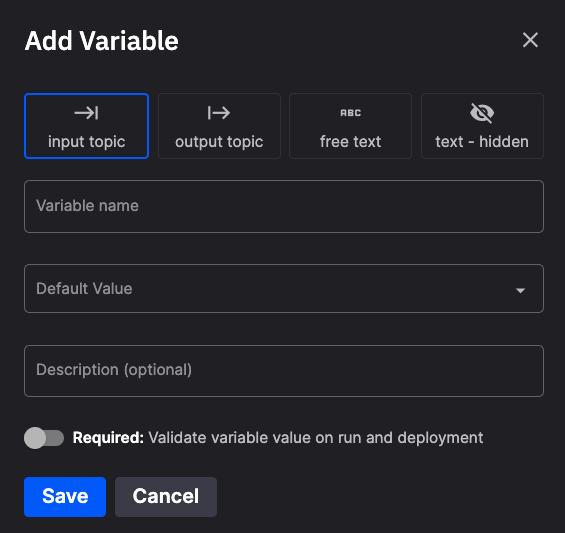
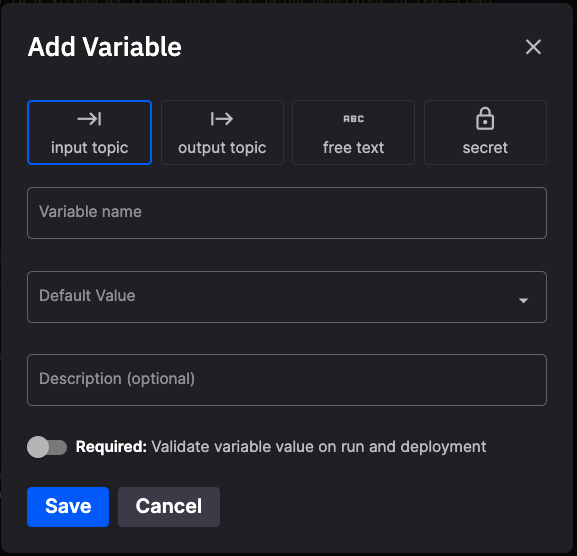
[add] - secrets management

diff --git a/docs/platform/how-to/environment-variables.md b/docs/platform/how-to/environment-variables.md
@@ -22,3 +22,39 @@ Once the variable has been created, you can then access the variable in your cod
 api_secret = os.environ["API_SECRET"]
 print(api_secret)
 ```
+
+## Secrets management
+
+Sometimes you connect the [Quix Connectors](../connectors/index.md), or services you have created, to other services, such as AWS, Vonage, Twilio, Azure and so on. You usually need to provide credentials to access these third-party APIs and services, using environment variables. 
+
+You do not want to expose these credentials through the use of environment variables in your YAML code, service code, Git repository, or even the UI, which may have shared access. Quix provides a feature to enable your credentials to be stored securely - secrets management.
+
+Using secrets management, you can create secret variables whose value is hidden in code (Git repository and Application code view), UI, and YAML code. The value is encrypted. This is ideal for environment variables used to provide credentials to third-party services and APIs in a secure manner.
+
+## Create a secret variable
+
+To create a secret variable:
+
+1. In the code view for your application, select `Secrets management`:
+
+    ![secrets management](../images/how-to/env-variables/secrets-management.png)
+
+2. Click `+ New variable`.
+
+3. Give your secret variable a name, a default value, and a value for the current environment, or environments if you have more than one for this project. 
+
+4. Click `Save changes` to save the secret variable.
+
+## To use a secret variable
+
+You can't use the secret variable directly, you need to create an environment variable that uses it. 
+
+To create an environment variable that uses a secret variable:
+
+1. In the `Add Variable` dialog, select the `secret` icon.
+
+2. Give the environment variable a name.
+
+3. Select the corresponding secret variable from the dropdown list.
+
+Now, when the environment variable appears in code or the UI, its value is the secret variable you assigned, but you cannot not see the value of the secret variable, only its name.

diff --git a/docs/platform/changes.md b/docs/platform/changes.md
@@ -13,6 +13,7 @@ Quix now supports the ability to:
 * Host projects with Quix-hosted Git or using a third-party provider
 * Enable environments to leverage Quix-hosted Kafka, self-hosted Kafka, or Confluent Cloud
 * Customized resource variables, so you can allocate different resources to different environments - for example, automatically allocate more CPU cores to production
+* Secret (encrypted) variables
 
 These new features introduced significant changes to the Quix UI and workflow. The rest of this documentation describes the new terminology, features, and workflow. 
 
@@ -114,7 +115,15 @@ An entire Quix pipeline can be described by a `quix.yaml` file. This file is als
 
 This allows Quix to quickly replicate an entire pipeline and configuration. For example, a pipeline created and tested in one branch, can be quickly duplicated in another branch. 
 
+### YAML variables
+
 It is also possible to use [YAML variables](../platform/how-to/yaml-variables.md) in the YAML file to configure resources differently depending on the environment.
+
+## Secret variables
+
+It is now possible to make the value assigned to an environment variable completely secret. This means it cannot be read in code (either in the Application view or in the Git repository), the UI, or in the YAML code for a pipeline. This is essential in order to keep credentials for others services, such as Amazon Web Services (AWS) secure.
+
+To create a secret variable read the [secrets management](../platform/how-to/environment-variables.md#secrets-management) section in the environment variables documentation. 
 
 ## New and legacy terminology comparison
 
